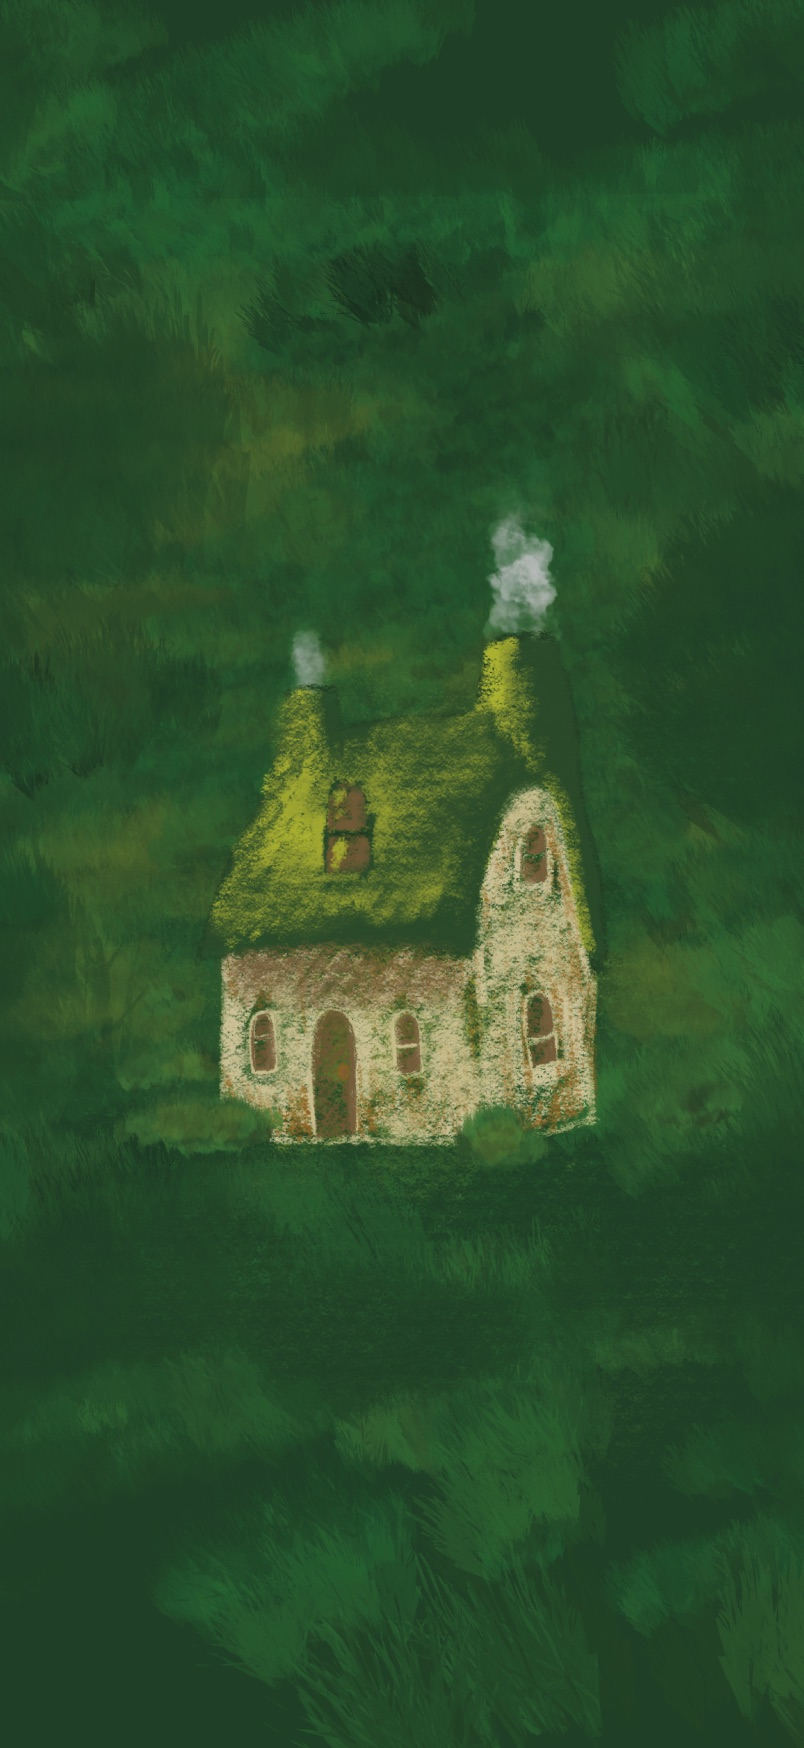
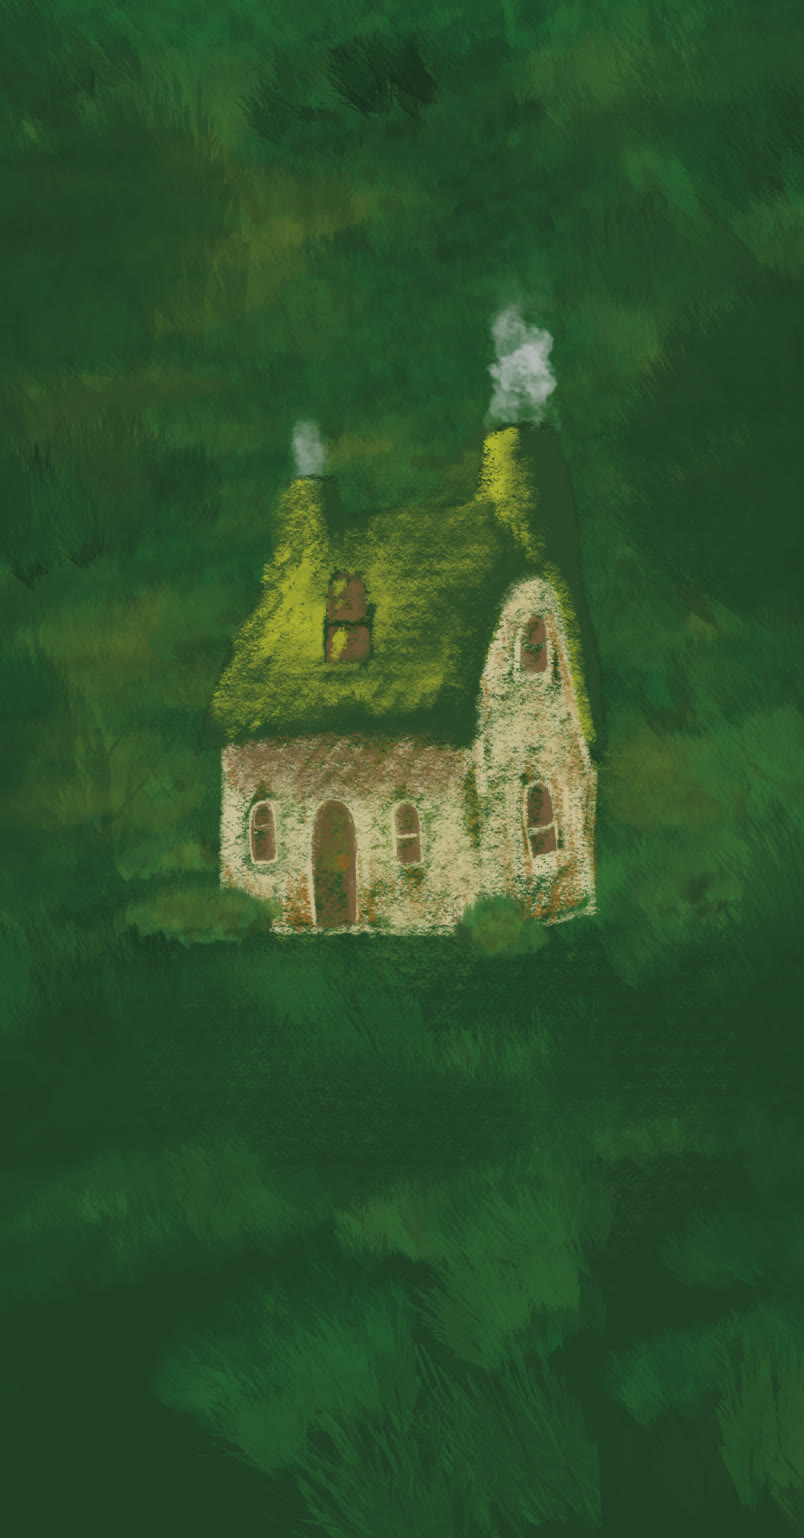
fix: trim the painting's top edge off the file, and push it up on a phone
Ivo, looking at it on his own phone: a band of slightly different green
across the top, and a request to push the image up.

Both were the painting's top edge. Profiling the brightness down the first
600px shows the tone shifting - darker at the very edge, brightening around
a tenth of the way down - and on a tall screen that transition sat across
the top looking like a seam. There is no crisp band to hide, which is why
nudging the framing never quite got rid of it.

So the top 12% comes off the FILE, and the CSS goes back to plain cover.
That matters more than it sounds: the version before this pushed the band
off with `background-size: auto 112%`, which hid it on a phone and left
black bars down both sides of a tablet, because 112% of the height is
narrower than a wide viewport. Cropping removes the band for every shape at
once and cover always covers.

Anchored to the bottom as well, which is the "push it up" half. The painting
is proportionally taller than a phone screen, so cover leaves a little
vertical overflow, and this spends all of it upward. It also puts the crop
where the gradient is already darkest, so what gets trimmed is the part
fading out anyway.

Checked on five shapes rather than trusting one: his phone, iPhone SE, 16
Pro Max, tablet and landscape. No bars anywhere, cottage whole, smoke
intact.

One tool note that cost an hour earlier in this work and is worth leaving
here: `sips -c` crops from the CENTRE, so three "crops" came back
[…]

diff --git a/public/css/styles.css b/public/css/styles.css
@@ -492,8 +492,20 @@ body:has(#login:not(.hidden)) { background-color: #241d17; }
      So: the untitled painting, framed the way he chose. If the newer
      illustration is ever exported without its lettering, it can drop
      straight in here at twice this resolution. */
+  /* Plain cover. The painting's top 12% is cropped off the FILE instead of
+     being pushed off-screen with a zoom - Ivo spotted on a real phone that
+     the tone shifts there (darker at the very edge, brightening around a
+     tenth of the way down) and it read as a seam across the top.
+     Cropping rather than zooming matters: `auto 112%` hid the band on a
+     phone and left black bars down both sides of a tablet, because 112% of
+     the height is narrower than a wide viewport. cover always covers. */
   background-size: cover;
-  background-position: center center;
+  /* Anchored to the bottom rather than centred: on a phone the painting is
+     proportionally taller than the screen, so cover leaves a little vertical
+     overflow, and spending all of it upward is what Ivo asked for after
+     seeing it on his own phone. It also puts the crop where the gradient is
+     already darkest, so what gets trimmed is the part fading out anyway. */
+  background-position: center bottom;
   background-repeat: no-repeat;
 }
 
@@ -513,6 +525,10 @@ body:has(#login:not(.hidden)) { background-color: #241d17; }
    beats a chopped house. */
 @media (orientation: landscape) and (max-height: 520px) {
   #login::before {
+    /* Back to cover: `auto 112%` of a short, wide viewport is a different
+       thing entirely, and the reason for the 112% (trimming the top edge on
+       a tall screen) does not apply here. */
+    background-size: cover;
     background-position: center 22%;
   }
 }
